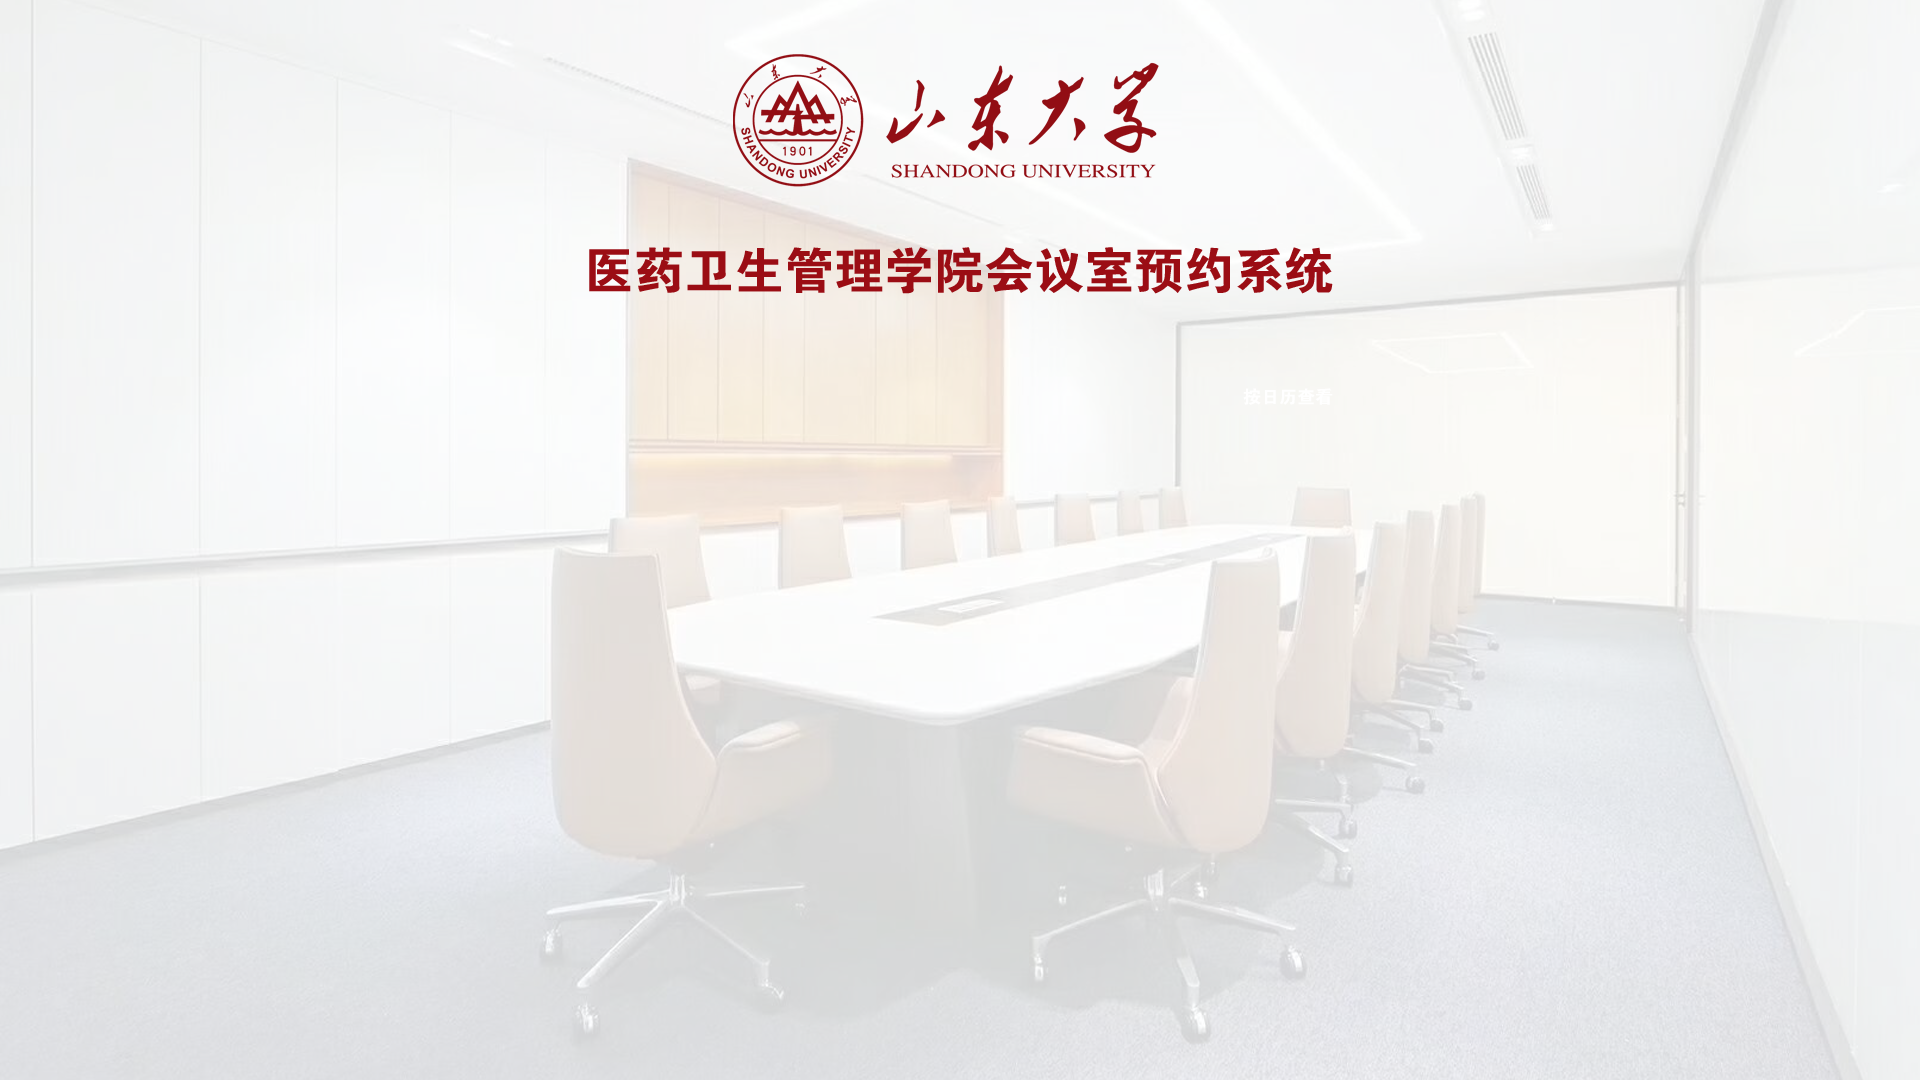
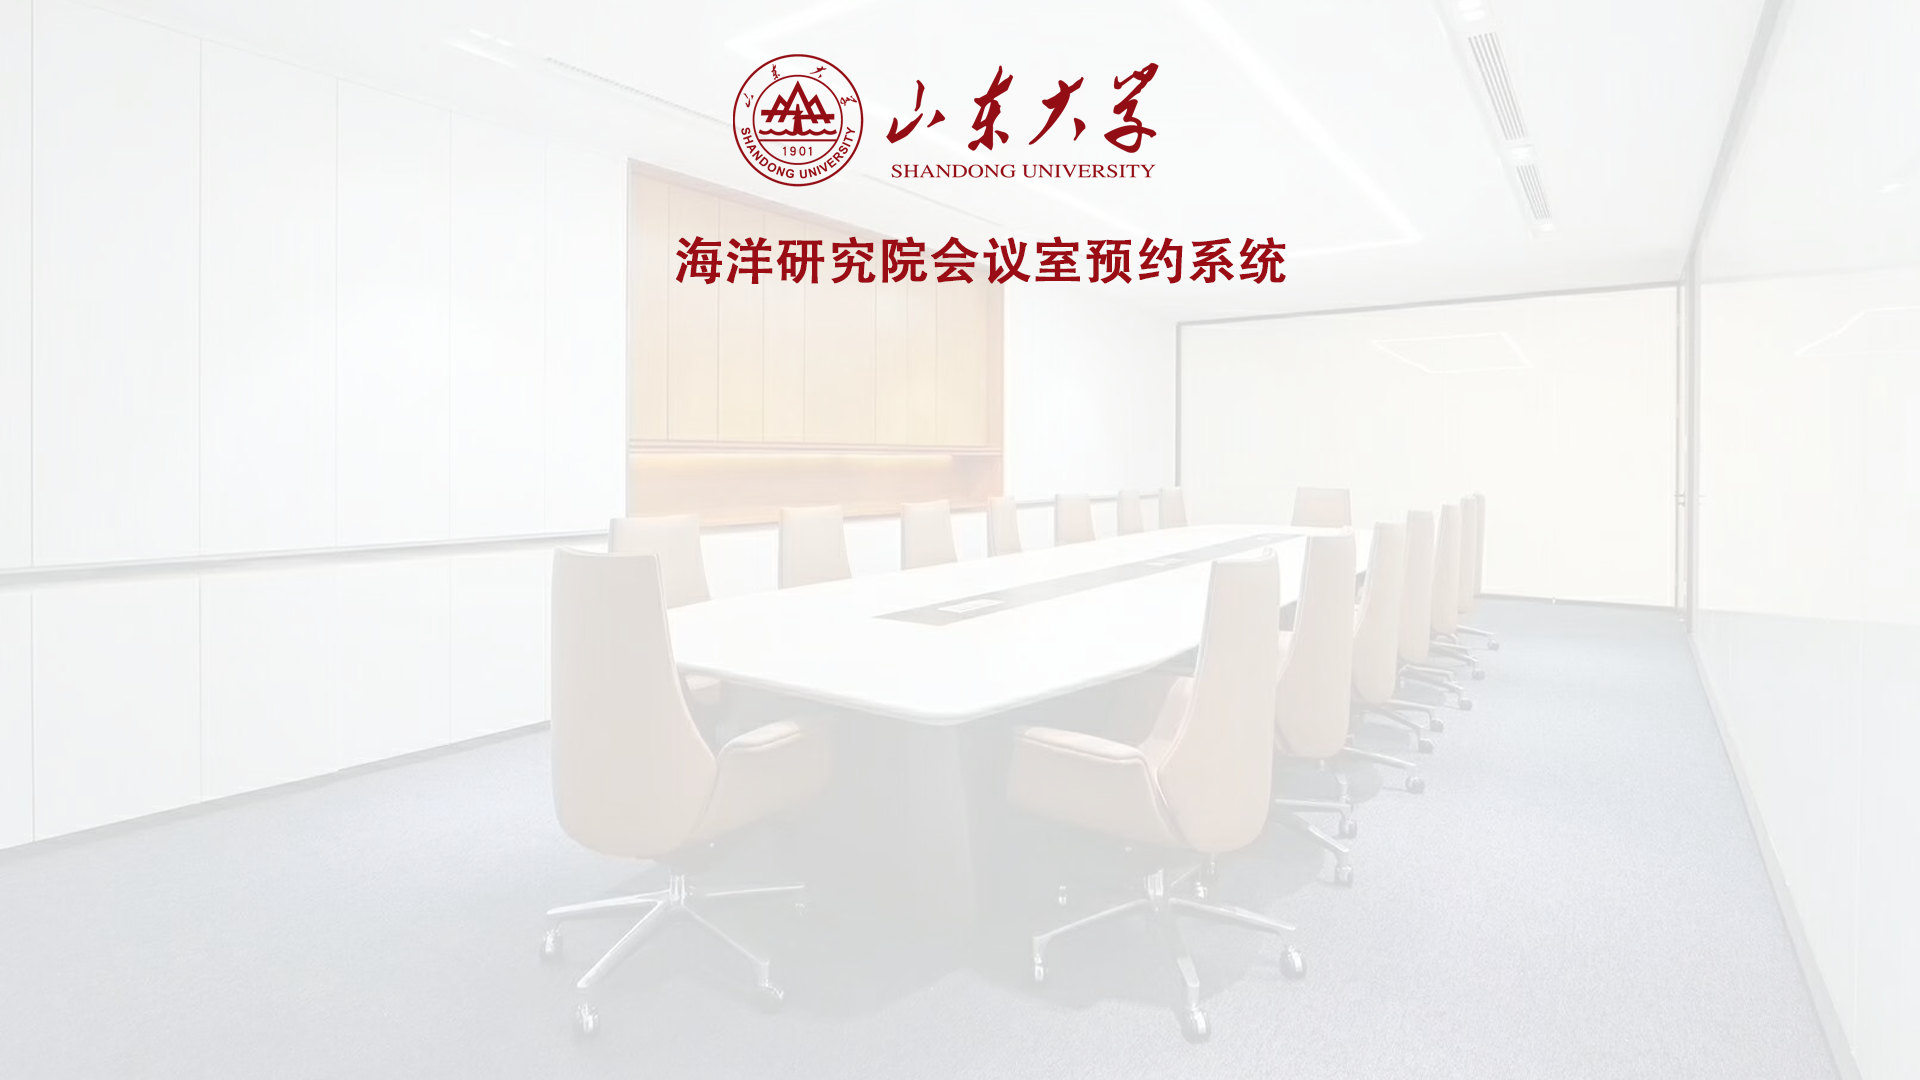
海洋研究院修改

Changed region(s): [[0.2812, 0.2139, 0.7188, 0.275]]

diff --git a/src/main/resources/templates/index.html b/src/main/resources/templates/index.html
@@ -3,7 +3,7 @@
 <head>
     <meta charset="UTF-8">
     <meta name="viewport" content="width=device-width, initial-scale=1, shrink-to-fit=no">
-    <title>医药卫生管理学院会议室预约系统</title>
+    <title>海洋研究院会议室预约系统</title>
     <link rel="stylesheet" href="https://stackpath.bootstrapcdn.com/bootstrap/4.1.3/css/bootstrap.min.css"
           integrity="sha384-MCw98/SFnGE8fJT3GXwEOngsV7Zt27NXFoaoApmYm81iuXoPkFOJwJ8ERdknLPMO" crossorigin="anonymous">
     <script src="https://code.jquery.com/jquery-3.3.1.slim.min.js"
@@ -15,10 +15,9 @@
     <script src="https://stackpath.bootstrapcdn.com/bootstrap/4.1.3/js/bootstrap.min.js"
             integrity="sha384-ChfqqxuZUCnJSK3+MXmPNIyE6ZbWh2IMqE241rYiqJxyMiZ6OW/JmZQ5stwEULTy"
             crossorigin="anonymous"></script>
-
 </head>
 <body style="overflow:hidden;">
-<img src="/images/bg_view.png" style="width: 100%;height: auto;  position: absolute;z-index: -1 ;top: 0;">
+<img src="/images/bg.png" style="width: 100%;height: auto;  position: absolute;z-index: -1 ;top: 0;">
 <div class="container-fluid" style="text-align: center"><h1></h1>
 
 </div>
@@ -28,11 +27,11 @@
 
     <div style="text-align: center;align-content: center;align-items: center;    margin-top: 20%;">
         <div style="max-width: 60%; margin-left: 20%;position: relative;display: flex;">
-            <h5 style="background: #9c0c13;padding: 1rem;color: #fff; margin-bottom: 0;">327会议室</h5>
+            <h5 style="background: #9c0c13;padding: 1rem;color: #fff; margin-bottom: 0;">四楼报告厅</h5>
             <div style="    margin-left: 58%;">
                 <a href="/view" class="btn btn-primary"
                    style="border-radius: 25px;background: #9c0c13;color: #fff;margin-bottom: -20px;    padding: .3rem 1.5rem;">按日历查看</a>
-                <a href="http://202.194.15.92/academic?redirect=http://202.194.15.92:8688/login" class="btn btn-primary"
+                <a href="http://202.194.15.92/academic?redirect=http://202.194.15.92:8788/login" class="btn btn-primary"
                    style="border-radius: 25px;background: #9c0c13;color: #fff;margin-bottom: -20px;    padding: .3rem 1.5rem;">预约会议室</a>
             </div>
         </div>
@@ -62,7 +61,7 @@
     </div>
     <footer style="text-align: center;align-items: center;align-content: center;margin-top: 80px;z-index: 1">
         <div style="text-align: center;align-items: center;align-content: center">
-            <b><p style="text-align: center;align-items: center;align-content: center">版权所有：山东大学医药卫生管理学院 联系电话：0531-88382693</p></b>
+            <b><p style="text-align: center;align-items: center;align-content: center">版权所有：山东大学海洋研究院 联系电话：0532-58633267</p></b>
         </div>
     </footer>
 </div>

diff --git a/src/main/resources/templates/view.html b/src/main/resources/templates/view.html
@@ -75,13 +75,14 @@
         }
 
     </style>
+    <title>海洋研究院会议室预约系统</title>
 </head>
 <body>
 <img src="/images/bg2.png" style="width: 100%;height: auto;    position: absolute; " >
 <div id='calendar-container' style="    margin: 200px; margin-top: 4%;">
 
     <div class="dropdown show" style="margin: 15px;">
-        <a class="btn btn-secondary" href="http://202.194.15.92:8687/" role="button">
+        <a class="btn btn-secondary" href="http://202.194.15.92:8787/" role="button">
             返回
         </a>
         <a class="btn btn-secondary dropdown-toggle" href="#" role="button" id="dropdownMenuLink" data-toggle="dropdown"

diff --git a/src/main/resources/templates/view2.html b/src/main/resources/templates/view2.html
@@ -75,6 +75,7 @@
         }
 
     </style>
+    <title>海洋研究院会议室预约系统</title>
 </head>
 <body>
 

diff --git a/src/main/java/com/jayson/service/MainService.java b/src/main/java/com/jayson/service/MainService.java
@@ -47,7 +47,12 @@ public class MainService {
             /*  45 */
             User user = this.mainMapper.getUserById(e.getUserId());
             /*  46 */
-            jsonObject.put("user", user.getName());
+            if (user==null){
+                jsonObject.put("user", "null");
+            }else {
+                jsonObject.put("user", user.getName());
+            }
+
             /*  47 */
             jsonObject.put("textColor", "white");
             /*  48 */
@@ -214,9 +219,3 @@ public class MainService {
         return mainMapper.userEdit(id,roleId);
     }
 }
-
-
-/* Location:              C:\Users\MichaelOD_WIN10\Desktop\fsdownload\sdu-meeting-0.0.9-SNAPSHOT.jar!\BOOT-INF\classes\com\jayson\service\MainService.class
- * Java compiler version: 8 (52.0)
- * JD-Core Version:       1.0.7
- */

diff --git a/src/main/java/com/jayson/mapper/MainMapper.java b/src/main/java/com/jayson/mapper/MainMapper.java
@@ -30,9 +30,3 @@ public interface MainMapper {
   @Update("UPDATE Users SET role_id = #{roleId} WHERE id = #{id}")
   int userEdit(@Param("id")int id ,@Param("roleId") int roleId);
 }
-
-
-/* Location:              C:\Users\MichaelOD_WIN10\Desktop\fsdownload\sdu-meeting-0.0.9-SNAPSHOT.jar!\BOOT-INF\classes\com\jayson\mapper\MainMapper.class
- * Java compiler version: 8 (52.0)
- * JD-Core Version:       1.0.7
- */

diff --git a/src/main/java/com/jayson/controller/MainController.java b/src/main/java/com/jayson/controller/MainController.java
@@ -141,8 +141,3 @@ public class MainController {
 
 }
 
-
-/* Location:              C:\Users\MichaelOD_WIN10\Desktop\fsdownload\sdu-meeting-0.0.9-SNAPSHOT.jar!\BOOT-INF\classes\com\jayson\controller\MainController.class
- * Java compiler version: 8 (52.0)
- * JD-Core Version:       1.0.7
- */
